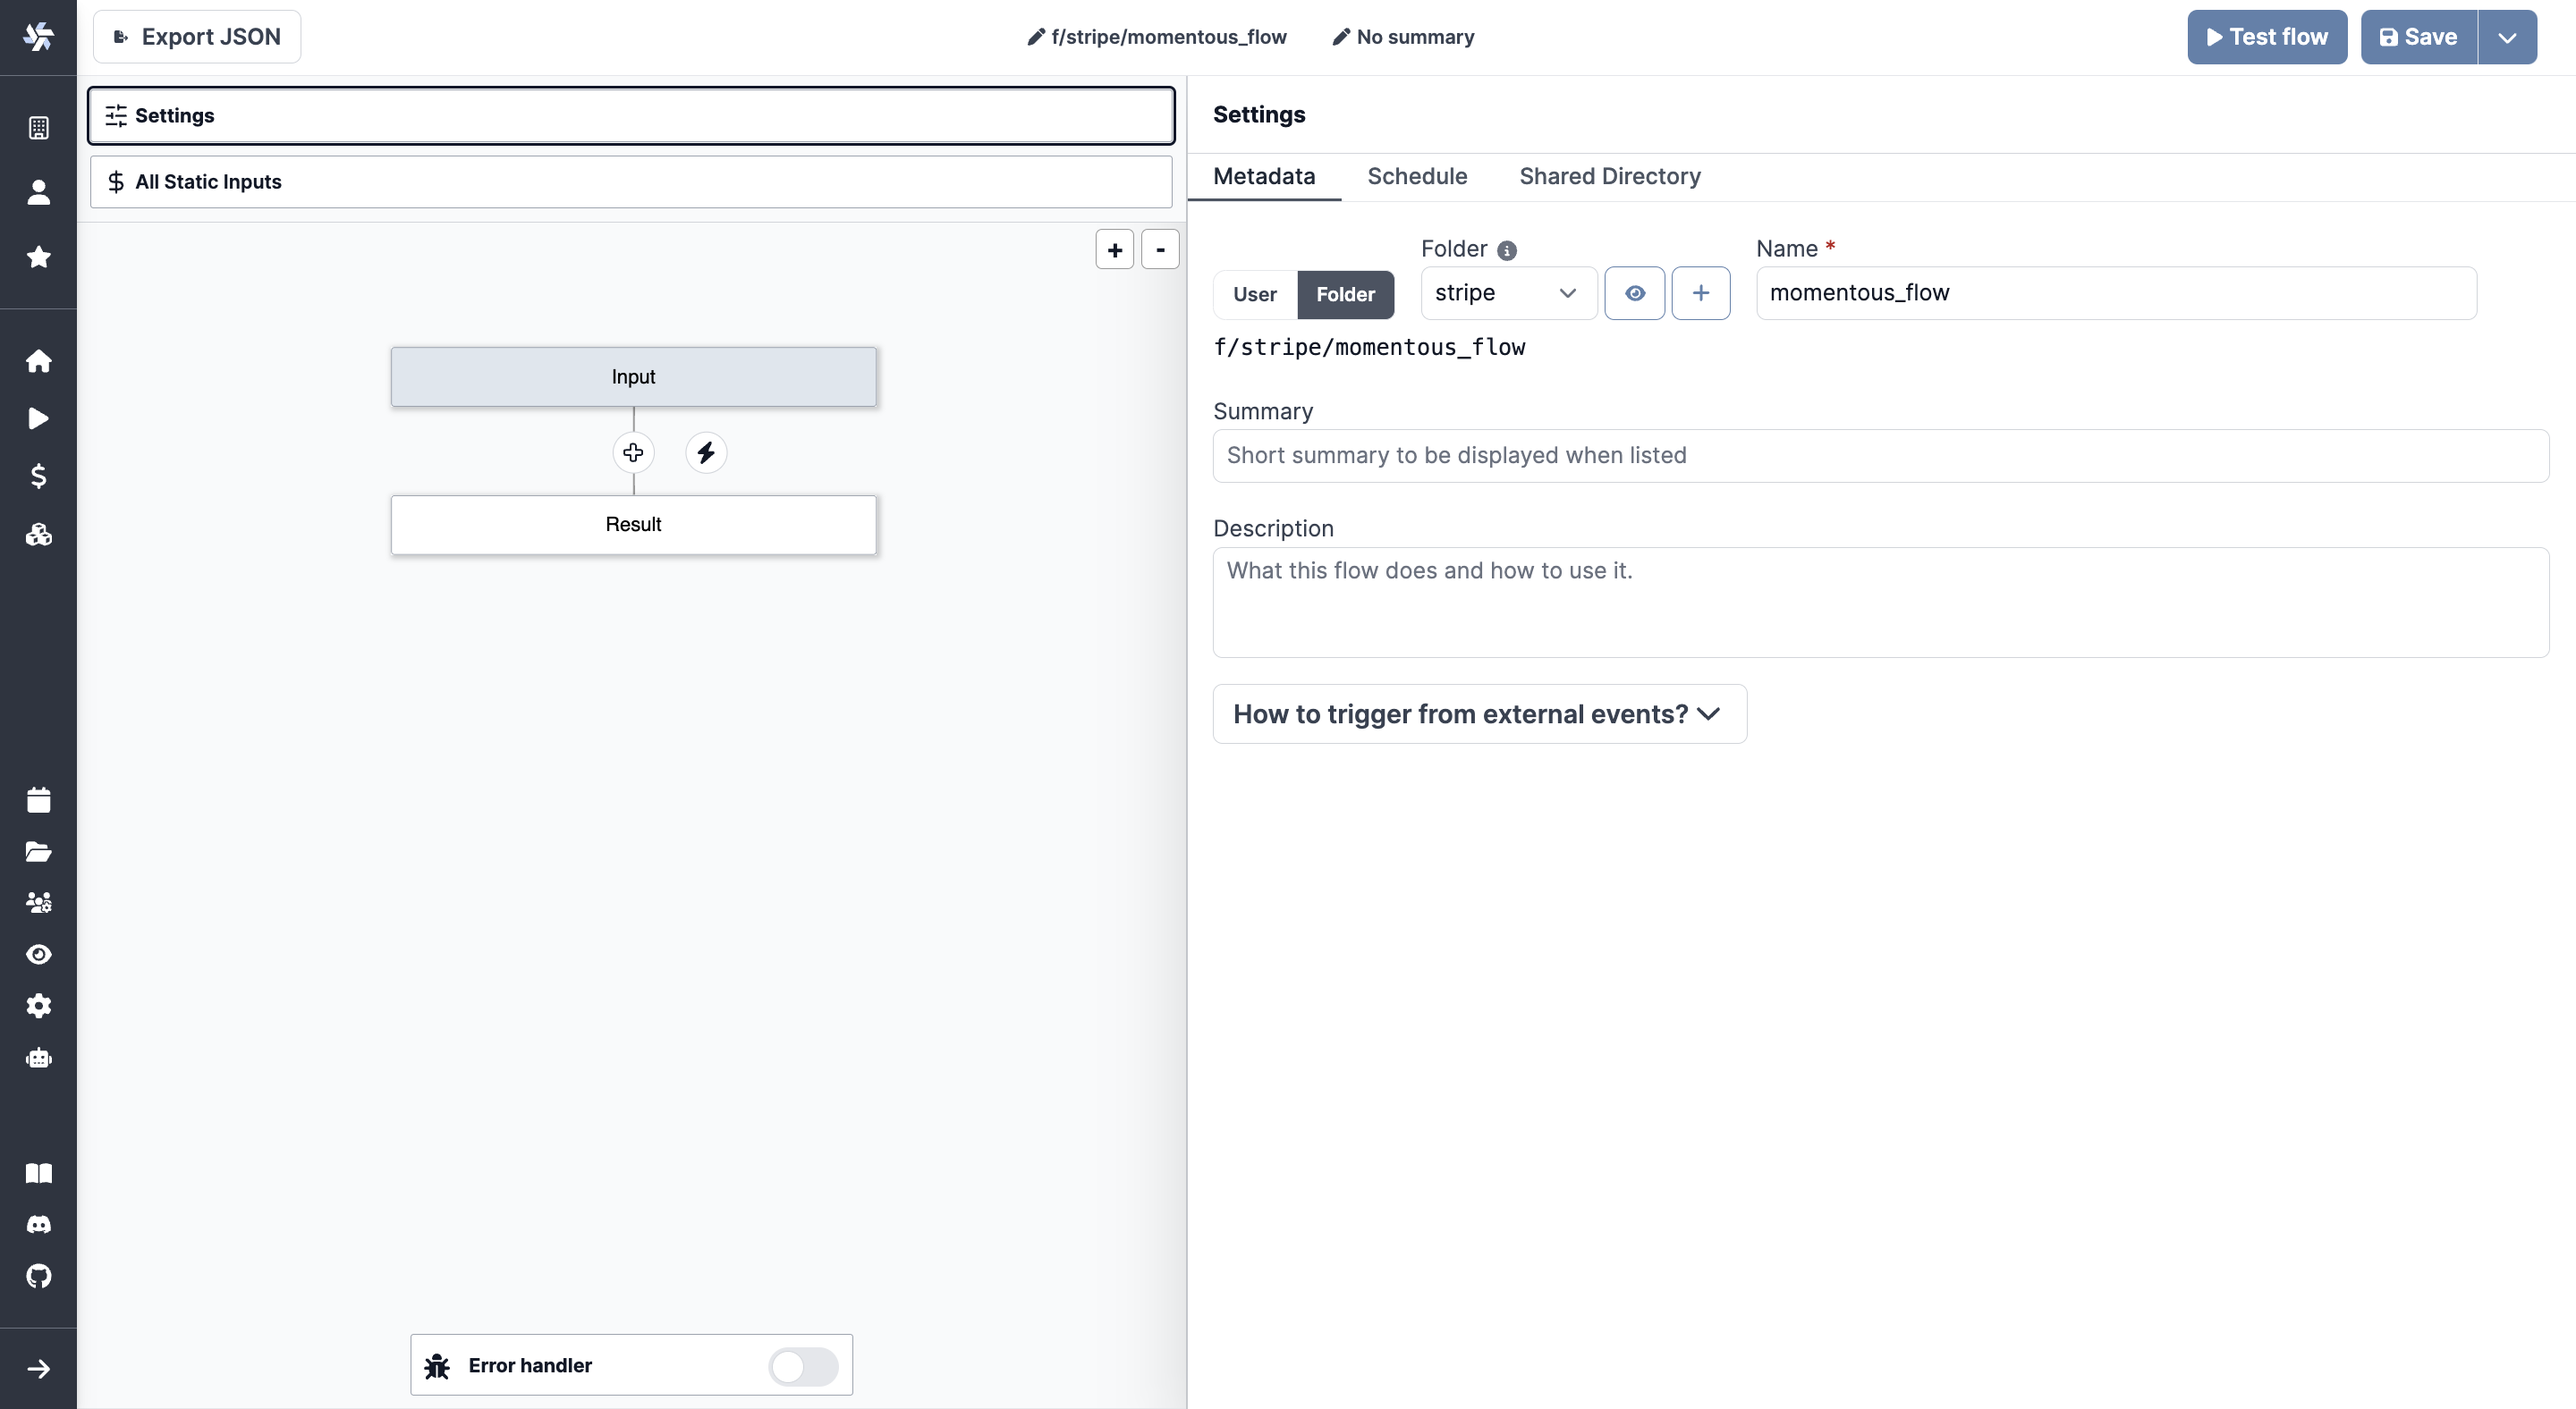
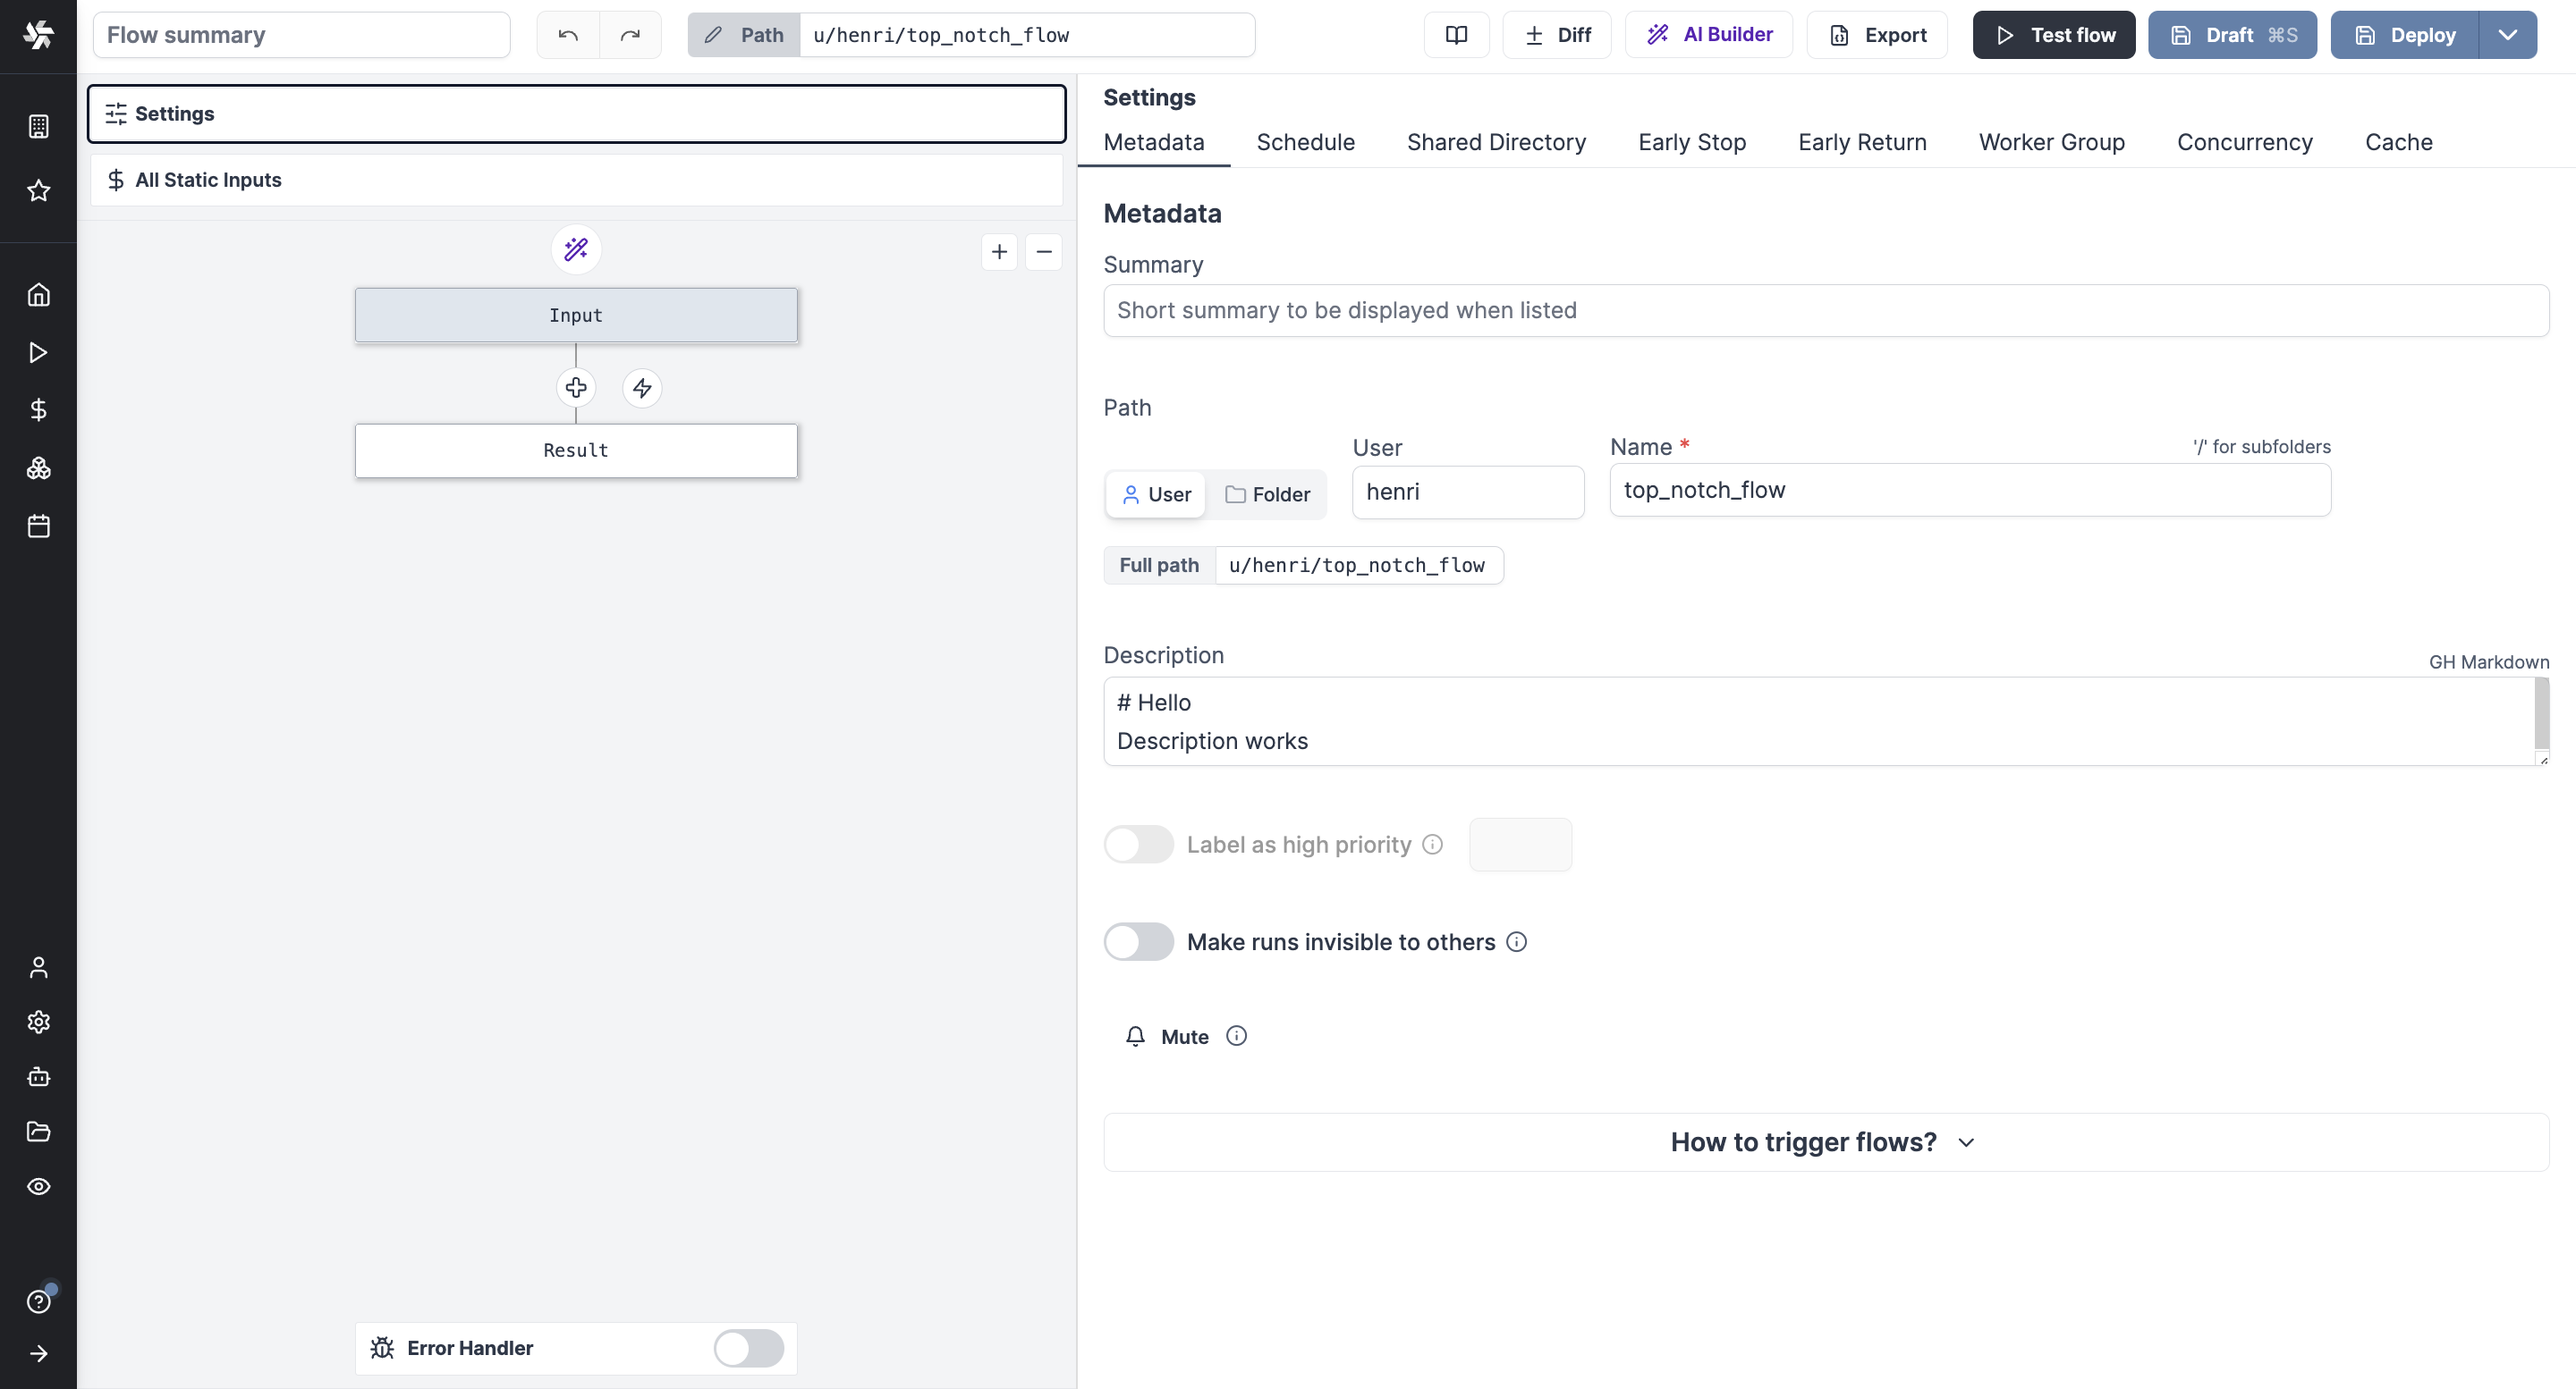
Rich results and changelog

diff --git a/docs/core_concepts/19_rich_display_rendering/index.md b/docs/core_concepts/19_rich_display_rendering/index.md
@@ -23,6 +23,11 @@ If the result is an object/dict with a single key (except for `approval`, which 
 | svg        | Render the value as an SVG image                            | `return { "svg": "<svg>...</svg>" }`                                                                                 |
 | markdown   | Render the value as Markdown                                | `return { "markdown": "## Hello World" }` or `return { "md": "## Hello World" }`                                     |
 | render_all | Render all the results                                      | `return { "render_all": [ { "json": { "a": 1 } }, { "table-col": { "foo": [42, 8], "bar": [38, 12] }} ] }`           |
+| map | Render a map with a given location                                 | `return { "map": { lat: 40, lon: 0, zoom: 3, markers: [{lat: 50.6, lon: 3.1, title: "Home", radius: 5, color: "yellow", strokeWidth: 3, strokeColor: "Black"}]}`           |
+
+![Rich display HTML](./rich_display_html.png "Rich display HTML")
+
+![Rich display map](./rich_display_map.png "Rich display map")
 
 **Regarding the tables**: If the result is a list whose first element is also a list, it will display the result as a table. If the result is a dict/object where every value is an array, it will also be displayed as a table, with the key as the column name.
 

diff --git a/changelog/2024-03-27-approval-steps/index.md b/changelog/2024-03-27-approval-steps/index.md
@@ -1,0 +1,15 @@
+---
+slug: approval-steps-improvements
+version: v1.298.0
+title: Approval Steps Improvements
+tags: ['Flow Editor']
+image: ./hide_cancel_approval_page.png
+description: Improved the experience with approval steps.
+features:
+  [
+    'You can now remove the deny button from approval page to force more complex patterns using forms with enums processed in ulterior steps.',
+    'Now approval steps resume forms at any level will be displayed at the top-level, regardless of their depths.',
+    'We have updated the default template and there is a new field description to add very clear instructions which support the whole range of of rich display rendering.'
+  ]
+docs: /docs/flows/flow_approval
+---

diff --git a/changelog/2024-03-27-map-support-renderer/index.md b/changelog/2024-03-27-map-support-renderer/index.md
@@ -1,0 +1,15 @@
+---
+slug: map-support-renderer
+version: v1.298.0
+title: Map Support in Result Renderer
+tags: ['Scripts', 'Flow Editor']
+image: ./map.png
+description: Map support in Rich Display Rendering.
+features:
+  [
+    'Display a map from lat and long.',
+    'Marker with specific location and colors.',
+    'Example: `return { "map": { lat: 40, lon: 0, zoom: 3, markers: [{lat: 50.6, lon: 3.1, title: "Home", radius: 5, color: "yellow", strokeWidth: 3, strokeColor: "Black"}]}`'
+  ]
+docs: /docs/core_concepts/rich_display_rendering
+---

diff --git a/changelog/2024-03-27-markdown-support/index.md b/changelog/2024-03-27-markdown-support/index.md
@@ -1,0 +1,15 @@
+---
+slug: markdown-support-descriptions
+version: v1.298.0
+title: Markdown support in descriptions
+tags: ['Scripts', 'Flow Editor', 'Resources']
+image: ./flow_settings_metadata_markdown.png
+description: We now support GH flavored markdown for description of scripts, flows, resources.
+features:
+  [
+    'Markdown support for scripts descriptions.',
+    'Markdown support for flows descriptions.',
+    'Markdown support for resources descriptions.',
+  ]
+docs: /docs/flows/editor_components#description
+---
